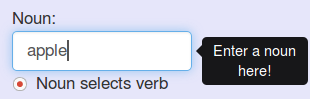
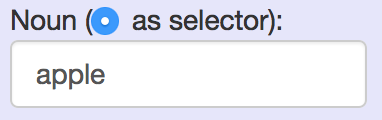
Update help page

diff --git a/wsvt/view2D/templates/view2D/help.html b/wsvt/view2D/templates/view2D/help.html
@@ -77,21 +77,20 @@
       <!-- Step 2 -->
       <h3> Step 2 </h3>
       <div class="step">
-        <div class="right">
+        <div class="right" >
 
           <!-- image -->
-          <img src="{% static 'view2D/img/noun.png' %}" width="300" style="border: 1px solid lightgrey">
+          <img src="{% static 'view2D/img/verb.png' %}" width="300" style="border: 1px solid lightgrey">
         </div>
         <div class="left">
 
           <!-- description -->
           <p class="well">
-            You have to enter a noun in the "Noun" input field. This field must be filled in order to send the query.<br><br> For example: apple
+            Then you have to enter a verb in the "Verb" input field. This field must be filled in order to send the query.<br><br> For example: eat
           </p>
         </div>
       </div>
-      <br>
-
+      <br><br>
 
       <!-- Step 3 -->
       <h3> Step 3 </h3>
@@ -110,24 +109,23 @@
         </div>
       </div>
 
-
       <!-- Step 4 -->
       <h3> Step 4 </h3>
       <div class="step">
-        <div class="right" >
+        <div class="right">
 
           <!-- image -->
-          <img src="{% static 'view2D/img/verb.png' %}" width="300" style="border: 1px solid lightgrey">
+          <img src="{% static 'view2D/img/noun.png' %}" width="300" style="border: 1px solid lightgrey">
         </div>
         <div class="left">
 
           <!-- description -->
           <p class="well">
-            Then you have to enter a verb in the "Verb" input field. This field must be filled in order to send the query.<br><br> For example: eat
+            You have to enter a noun in the "Noun" input field. This field must be filled in order to send the query.<br><br> For example: apple
           </p>
         </div>
       </div>
-      <br><br>
+      <br>
 
       <!-- Step 5 -->
       <h3> Step 5 </h3>
@@ -141,7 +139,7 @@
 
           <!-- description -->
           <p class="well">
-            Choose how many results you want to visualize. <br><br> 
+            Choose the number of results you want to visualise. <br><br> 
           </p>
         </div>
       </div>
@@ -153,16 +151,17 @@
         <div class="right" >
 
           <!-- image -->
-          <img src="{% static 'view2D/img/select.png' %}" width="300" style="border: 1px solid lightgrey">
+          <img src="{% static 'view2D/img/select1.png' %}" width="250" style="border: 1px solid lightgrey">
+          <img src="{% static 'view2D/img/select2.png' %}" width="250" style="border: 1px solid lightgrey">
         </div>
         <div class="left">
 
           <!-- description -->
           <p class="well">
-            This option defines whether you are more interested in verbs, which are surrounding the entered noun or in nouns, which are surrounding the entered verb. This is why you have these two options to choose from:<br>
-            Noun selects verb<br>
-            Verb selects noun<br><br>
-            For example: Noun selects verb
+            This option defines whether you are more interested in verbs, which are surrounding the entered noun or in nouns, which are surrounding the entered verb. In other words, using verb as selector or using noun as selector. If verb is used as selector, noun is query word, also named as filler. This is why you have these two options to choose from:<br>
+            Verb as selector<br>
+            Noun as selector<br><br>
+            For example: Noun as selector
           </p>
         </div>
       </div>
@@ -170,6 +169,32 @@
 
       <!-- Step 7 -->
       <h3> Step 7 </h3>
+      <div class="step">
+        <div class="right" >
+
+          <!-- image -->
+          <img src="{% static 'view2D/img/mapping.png' %}" width="200" style="border: 1px solid lightgrey">
+        </div>
+        <div class="left">
+
+          <!-- description -->
+          <p class="well">
+            This option is to choose mapping methods. There are 2 groups of mapping methods: Singular Vector Decomposition(SVD)-based and fraction cosine vector mapping (FCVM). <br>
+            1. SVD-based: <br>
+            SVDCos: SVD rescale by cosine to the centroid; <br>
+            SVD: truncated SVD with rank of 2. <br>
+            2. FCVM: fast mapping method for high dimension vector in distributional memory model; <br>
+            "-[n]q" represents the quadrants of the result is n. <br>
+            Distance from a point to the centroid is combination of cosine distance and normalized Local Mutual Information <br>
+            As an example, we use SVDCos here.<br>
+
+          </p>
+        </div>
+      </div>
+      <br>
+
+      <!-- Step 8 -->
+      <h3> Step 8 </h3>
       <div class="step">
         <div class="right" >
 
@@ -183,6 +208,31 @@
             Just click the button and send the query!<br><br>The visualization needs a short while to compute depending on the complexity of your query.
           </p>
         </div>
+      </div>
+      <br>
+
+      <!-- title -->
+      <h2> How to interpret the visualisation? </h2>
+
+      <div class="step">
+        <div class="right">
+          <!-- description -->
+          <p class="well">
+            After the mapping, points with colors are presented on the 2D visualization plane. <br>
+            Each point represents a word in the result returned from the model. In the center, <br>
+            a point name centroid in grey is the centroid of the result. <br><br>
+            The color represents the angular coordinate of the point, which means points with angular coordinates close to each other will have similar colors. <br><br>
+            The distance from each point to the centroid is the cosine distance mentioned above. This indicates the thematic fit score of the word in given context. <br><br>
+            The cosine value of query word is shown on bottom left corner. As the mouse is over any point, the cosine value of corresponding word is shown on bottom right corner. 
+          </p>
+        </div>
+
+        <div class="left" >
+
+          <!-- image -->
+          <img src="{% static 'view2D/img/canvas.png' %}" width="700" style="border: 1px solid lightgrey">
+        </div>
+
       </div>
       <br>
 
